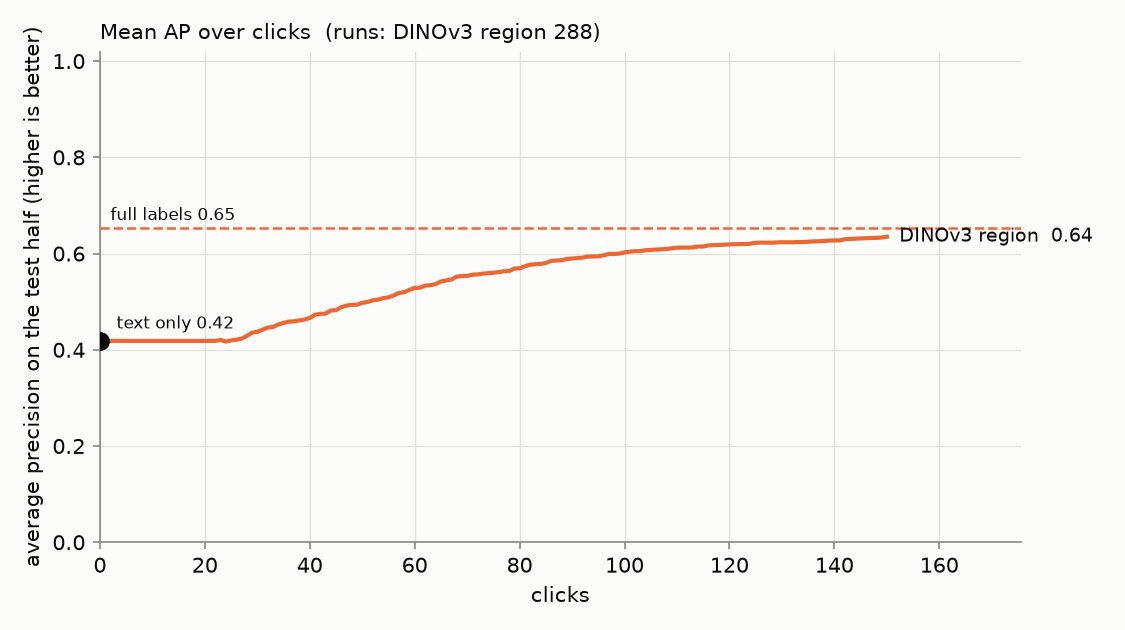
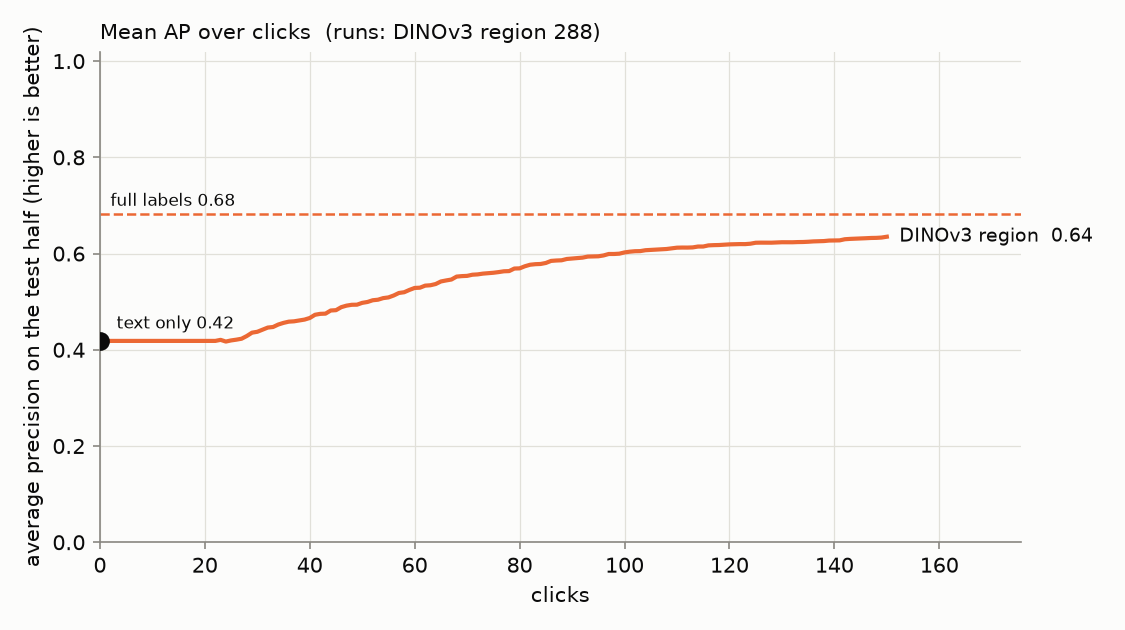
#4552: Region Photo's full-label ceiling and headroom; post-#4605 AP at 150
Seed 0's ceiling (array 891581, 144 runs, symlinked into -b025 and -b4)
landed, so the Region Photo report gets its ceiling columns and a
headroom section:
- headroom +0.04 AP (0.65 -> 0.70, seed 0's trained runs), nearly all at
  small (+0.11); chair, bowl, sink and knife lead; nine classes at or
  above their ceiling;
- the ceiling's own line goes too deep here too (#4490): 0.44/0.47/0.70
  against the 150-click 0.67/0.58/0.66; only beta 4 comes out ahead.

Also corrects AP at 150 in both photo reports, which #4605 moved for the
sessions still in the opening at click 150 and the tables had not caught:
binary small 0.25 -> 0.24, bottle 0.27 -> 0.26, the headroom and
clicks-bought class lists; region small 0.37 -> 0.35, book and knife.

Claude-Session: https://claude.ai/code/session_01RYAFvig7c64CtSQuHpMxrk

Changed region(s): [[0.0933, 0.3016, 0.9022, 0.3619]]

diff --git a/docs/experiments/2026-10-06-state-of-the-app-region-photo/REPORT.md b/docs/experiments/2026-10-06-state-of-the-app-region-photo/REPORT.md
@@ -9,8 +9,9 @@ check (#4496), and presets of beta 1/4, 1 and 4.
 **Path:** the region path. DINOv3 patch embeddings, with box votes trained as patches and a photo scored by
 its best patch (`max_patch`). It opens on SigLIP's text sort.
 **Bench:** `coco_better`, 144 cells (49 classes at every size they have).
-**Seeds:** 2. **Sessions:** one set per preset (`SOTA_BETA=0.25|1|4`), 288 runs each and 864 in all, trajectory
-pass only (the full-label ceiling is still running; see [Not covered](#not-covered)).
+**Seeds:** 2. **Sessions:** one set per preset (`SOTA_BETA=0.25|1|4`), 288 runs each and 864 in all. The
+full-label ceiling ran for seed 0 only (array 891581, 2026-10-07, 144 runs, shared by the three presets), so
+every ceiling number here is seed 0's (#4552).
 **Runs:** `/expscratch/sgreenberg/state-of-the-app/2026-10-06-b025`, `-b1` and `-b4`.
 - A run takes a median of 42 minutes on one core (p90 61, the slowest 144) and peaks at 18 to 22 GB.
 - So the per-user memory cap, not CPUs, sets how many run at once: at most about 43.
@@ -39,7 +40,8 @@ pass only (the full-label ceiling is still running; see [Not covered](#not-cover
   the detectors the harness trains during the opening, which no user sees. Every number before a session's
   hand-off is now the typed query's own set at the guarded line, and the analysis reads that line throughout.
   The votes and every number after the check are unchanged. The objective at 25 clicks moved from
-  0.57/0.49/0.61 to 0.30/0.33/0.50.
+  0.57/0.49/0.61 to 0.30/0.33/0.50. The AP at 150 moved too, for the 9% of sessions still in the opening at click 150:
+  0.37 to 0.35 at small, and book and knife (#4552 caught these).
 
 A **review**, not an experiment: the app as it ships on the region path, the way a user meets it.
 - **The session.** The user types a query and sees the text sort, then votes for 150 clicks while Autopilot picks
@@ -81,6 +83,10 @@ see [below](#where-it-does-well-and-where-it-does-poorly)):
    the 9% of sessions that never leave the opening in 150 clicks: the check is where they first see a detector.
    It cuts the share of runs returning more than 200 images from 4% and 7% to 1% and 3% at 1/4 and 1. At 4 it barely moves
    (27% to 25%).
+4. **The ceiling's own line goes too deep here too (#4490).** With every label known (seed 0), Find's line
+   scores 0.44/0.47/0.70 at the three presets, against the 150-click session's 0.67/0.58/0.66. It returns a mean
+   of 181, 319 and 605 images at precision 0.43, 0.37 and 0.31. As on the binary path, only beta 4, which rewards
+   depth, comes out ahead.
 
 ### The returned set through the session
 
@@ -125,29 +131,30 @@ typed query's set (#4605); the returned size is a median.
 The detector's own line (the labels line) against a set-constant top-K, at the preset's beta. Compare within a
 rule, never across.
 
-| preset | rule | text sort | 25 clicks | 50 clicks | 150 clicks |
-|---:|---|---:|---:|---:|---:|
-| 1/4 | app line | 0.17 | 0.29 | 0.50 | **0.67** |
-| 1/4 | top 32 | 0.47 | 0.47 | 0.55 | **0.68** |
-| 1 | app line | 0.24 | 0.32 | 0.45 | **0.58** |
-| 1 | top 32 | 0.38 | 0.38 | 0.44 | **0.55** |
-| 4 | app line | 0.47 | 0.49 | 0.55 | **0.66** |
-| 4 | top 128 | 0.49 | 0.48 | 0.54 | **0.66** |
+| preset | rule | text sort | 25 clicks | 50 clicks | 150 clicks | full labels (seed 0) |
+|---:|---|---:|---:|---:|---:|---:|
+| 1/4 | app line | 0.17 | 0.29 | 0.50 | **0.67** | 0.44 |
+| 1/4 | top 32 | 0.47 | 0.47 | 0.55 | **0.68** | 0.74 |
+| 1 | app line | 0.24 | 0.32 | 0.45 | **0.58** | 0.47 |
+| 1 | top 32 | 0.38 | 0.38 | 0.44 | **0.55** | 0.59 |
+| 4 | app line | 0.47 | 0.49 | 0.55 | **0.66** | 0.70 |
+| 4 | top 128 | 0.49 | 0.48 | 0.54 | **0.66** | 0.74 |
 
 ![The returned set's share of the best cut, per preset](figures/returned_at_own_beta.png)
 
 **The labels line matches a fixed top-K on the same ranking.** The text sort's app line is #4136's guarded line,
 the one the app draws today. Under top-K the detector beats the text sort by 50 clicks (0.55/0.44/0.54 against
-0.47/0.38/0.49); at 25 most sessions still show the text sort (#4605).
+0.47/0.38/0.49); at 25 most sessions still show the text sort (#4605). Full labels add 0.04 to 0.08 under
+top-K, but the ceiling's own app line falls below the session's at 1/4 and 1: it goes too deep (#4490).
 
 ### The ranking
 
 The ranking barely depends on the preset (shown: the beta 1 sessions):
 
-| | text only | 25 clicks | 50 clicks | 150 clicks |
-|---|---:|---:|---:|---:|
-| **AP** | 0.42 | 0.42 | 0.50 | **0.64** |
-| **Goods found** | — | 11 | 15 | **25** |
+| | text only | 25 clicks | 50 clicks | 150 clicks | full labels (seed 0) |
+|---|---:|---:|---:|---:|---:|
+| **AP** | 0.42 | 0.42 | 0.50 | **0.64** | 0.68 |
+| **Goods found** | — | 11 | 15 | **25** | — |
 
 ![Mean AP over clicks](figures/ap_over_clicks.png)
 
@@ -180,11 +187,11 @@ the next retrain learns from.
 
 **By size band** (beta 1; trained runs; the objective after the check, and the ranking's AP):
 
-| band (runs) | objective | returned, median | text AP | AP at 150 | Goods found |
-|---|---:|---:|---:|---:|---:|
-| large (98) | 0.81 | 50 | 0.70 | 0.88 | 36 |
-| medium (98) | 0.66 | 47 | 0.38 | 0.70 | 26 |
-| small (92; 83 trained) | 0.39 | 46 | 0.18 | 0.37 | 14 |
+| band (runs) | objective | returned, median | text AP | AP at 150 | full-label AP (seed 0) | Goods found |
+|---|---:|---:|---:|---:|---:|---:|
+| large (98) | 0.81 | 50 | 0.70 | 0.88 | 0.89 | 36 |
+| medium (98) | 0.66 | 47 | 0.38 | 0.70 | 0.71 | 26 |
+| small (92; 83 trained) | 0.39 | 46 | 0.18 | 0.35 | 0.44 | 14 |
 
 Against the binary path (0.77/0.49/0.29 by band), the gain is in **medium and small**: +0.17 and +0.10, against
 +0.04 for large.
@@ -195,9 +202,9 @@ Against the binary path (0.77/0.49/0.29 by band), the gain is in **medium and sm
 |---|---:|---:|---:|
 | chair | 0.07 | 0.37 | 0.35 |
 | enclosed road vehicle | 0.22 | 0.63 | 0.67 |
-| book | 0.28 | 0.54 | 0.55 |
+| book | 0.28 | 0.54 | 0.50 |
 | bottle | 0.27 | 0.50 | 0.54 |
-| knife | 0.20 | 0.41 | 0.41 |
+| knife | 0.20 | 0.41 | 0.39 |
 
 **Poorly, still:** tableware and the dining table.
 - Bowl 0.20 (bowl@small never trains, in either seed), spoon 0.29, dining table 0.32.
@@ -214,15 +221,26 @@ On the binary path, chair@small never trains in any of 10 seeds.
 
 ![Every class x band](figures/per_cell.png)
 
+## Headroom (full labels minus 150 clicks)
+
+Seed 0's 139 trained runs (beta 1), where the ceiling ran.
+- **The mean is 0.04 AP** (0.65 at 150 clicks against 0.70 with every label). The clicks had already bought
+  +0.22 over the typed query (0.44 → 0.65), so 150 clicks close about five sixths of the gap to full labels,
+  against about three quarters on the binary path.
+- **It is nearly all small objects:** +0.11 at small (0.34 → 0.44), against +0.02 at large and +0.01 at medium.
+- **By class,** the most is in chair (+0.20; 0.36 → 0.56), bowl (+0.19; 0.17 → 0.35), sink and knife (+0.17),
+  keyboard (+0.15), laptop and motorcycle (+0.13) and tv (+0.11). Bowl's ceiling is low as well: the embedding
+  is part of its problem, as on the binary path. Chair's ceiling is 0.56: the clicks leave the most on the
+  table there.
+- **Nine classes end at or above their ceiling:** cell phone (−0.04), book (−0.04), umbrella and tie (−0.03),
+  clock, airplane, bird, apple and baseball bat. As on the binary path, a head trained on 150 chosen labels can
+  match one trained on every label when the extra labels are noisy.
+
 <a id="not-covered"></a>
 ## Not covered
 
-- **The full-label ceiling.**
-  - A ceiling run takes about 80 GB, against 24 GB for the clicks.
-  - Seed 0's ceiling (array 891581, `-b1/ceiling`) started 2026-10-07 and had 5 of 144 cells at the time of this
-    analysis, so there is still no headroom section.
-  - `perbeta_summary.md`'s ceiling rows for beta 1 come from those 5 cells and are not read here.
-  - #4552 tracks it.
+- **The ceiling for seed 1.** It ran for seed 0 only, about 80 GB a run against 24 GB for the clicks. Every
+  ceiling number above is seed 0's.
 - **Seeds 2 and up** are not run. The binary review's per-image influence lists need repeat clicks, so they are
   not reported on two seeds.
 
@@ -237,9 +255,12 @@ On the binary path, chair@small never trains in any of 10 seeds.
 - `figures/`: the objective, the returned set and its path per preset; AP and Goods over clicks; every cell.
 - `viewer.html`: the beta-1 sessions, both seeds.
 - **Runs and analyses** are in `/expscratch/sgreenberg/state-of-the-app/2026-10-06-b025|b1|b4/`:
-  - `analysis-region-4605/`: **this version's**, both seeds, the opening scored as the text sort (#4605), on the
-    post-#4136 baseline; `perp.py` and `by_click.py` over them are in `2026-10-07-perp-4605-region/`, and
-    `/expscratch/sgreenberg/notch-4599/opening/analyze_4605.sh` reruns one;
+  - `analysis-region-4552/`: **this version's**, both seeds, the opening scored as the text sort (#4605), on the
+    post-#4136 baseline, with seed 0's ceiling (`-b1/ceiling`, symlinked into `-b025` and `-b4`); `perp.py` and
+    `by_click.py` over them are in `2026-10-07-perp-4552-region/`, and
+    `/expscratch/sgreenberg/notch-4599/opening/analyze_dev.sh` reruns one. Off them,
+    `/expscratch/sgreenberg/notch-4599/opening/headroom_4552.py` reads the headroom;
+  - `analysis-region-4605/`: the same without the ceiling;
   - `analysis-region/`: both seeds, on the as-measured text baseline (before #4605);
   - `analysis-region-1seed/`: the first version's;
   - `analysis-region-2seeds-post4136baseline/`: the same sessions, with click 0 scored at #4136's line (#4599);

diff --git a/docs/experiments/2026-10-06-state-of-the-app-region-photo/perbeta_summary.md b/docs/experiments/2026-10-06-state-of-the-app-region-photo/perbeta_summary.md
@@ -45,32 +45,32 @@ One rule per row (owner, 2026-10-04: apples to apples). `app line`: each sort's 
 | beta 0.25 | DINOv3 region | app line | 0.25 | 25 | 239.243 | 0.285 | 0.556 | 0.287 | 0.567 | 0.46 | 0.0 | 288 |
 | beta 0.25 | DINOv3 region | app line | 0.25 | 50 | 129.741 | 0.509 | 0.505 | 0.496 | 0.623 | 0.669 | 0.0 | 278 |
 | beta 0.25 | DINOv3 region | app line | 0.25 | final | 53.705 | 0.727 | 0.481 | 0.665 | 0.756 | 0.797 | 0.0 | 288 |
-| beta 0.25 | DINOv3 region | app line | 0.25 | ceiling |  |  |  |  |  |  | 0.0 | 0 |
+| beta 0.25 | DINOv3 region | app line | 0.25 | ceiling | 180.771 | 0.433 | 0.859 | 0.442 | 0.815 | 0.496 | 0.0 | 144 |
 | beta 0.25 | DINOv3 region | top-K | 0.25 | text | 32.0 | 0.486 | 0.314 | 0.471 | 0.561 | 0.69 | 0.0 | 288 |
 | beta 0.25 | DINOv3 region | top-K | 0.25 | 25 | 32.0 | 0.488 | 0.315 | 0.472 | 0.567 | 0.688 | 0.0 | 288 |
 | beta 0.25 | DINOv3 region | top-K | 0.25 | 50 | 32.0 | 0.566 | 0.366 | 0.548 | 0.623 | 0.726 | 0.0 | 278 |
 | beta 0.25 | DINOv3 region | top-K | 0.25 | final | 32.0 | 0.705 | 0.456 | 0.682 | 0.756 | 0.816 | 0.0 | 288 |
-| beta 0.25 | DINOv3 region | top-K | 0.25 | ceiling |  |  |  |  |  |  | 0.0 | 0 |
+| beta 0.25 | DINOv3 region | top-K | 0.25 | ceiling | 32.0 | 0.759 | 0.489 | 0.735 | 0.815 | 0.876 | 0.0 | 144 |
 | beta 1 | DINOv3 region | app line | 1.0 | text | 288.312 | 0.166 | 0.583 | 0.238 | 0.45 | 0.568 | 0.0 | 288 |
 | beta 1 | DINOv3 region | app line | 1.0 | 25 | 247.672 | 0.259 | 0.573 | 0.316 | 0.451 | 0.652 | 0.0 | 287 |
 | beta 1 | DINOv3 region | app line | 1.0 | 50 | 147.921 | 0.438 | 0.564 | 0.453 | 0.519 | 0.78 | 0.0 | 280 |
 | beta 1 | DINOv3 region | app line | 1.0 | final | 90.872 | 0.605 | 0.617 | 0.581 | 0.639 | 0.839 | 0.0 | 288 |
-| beta 1 | DINOv3 region | app line | 1.0 | ceiling | 366.848 | 0.377 | 0.899 | 0.462 | 0.665 | 0.603 | 0.0 | 46 |
+| beta 1 | DINOv3 region | app line | 1.0 | ceiling | 319.354 | 0.37 | 0.911 | 0.468 | 0.687 | 0.61 | 0.0 | 144 |
 | beta 1 | DINOv3 region | top-K | 1.0 | text | 32.0 | 0.486 | 0.314 | 0.381 | 0.45 | 0.72 | 0.0 | 288 |
 | beta 1 | DINOv3 region | top-K | 1.0 | 25 | 32.0 | 0.488 | 0.315 | 0.382 | 0.451 | 0.722 | 0.0 | 287 |
 | beta 1 | DINOv3 region | top-K | 1.0 | 50 | 32.0 | 0.567 | 0.366 | 0.444 | 0.519 | 0.729 | 0.0 | 280 |
 | beta 1 | DINOv3 region | top-K | 1.0 | final | 32.0 | 0.705 | 0.456 | 0.553 | 0.639 | 0.797 | 0.0 | 288 |
-| beta 1 | DINOv3 region | top-K | 1.0 | ceiling | 32.0 | 0.728 | 0.462 | 0.564 | 0.665 | 0.849 | 0.0 | 46 |
+| beta 1 | DINOv3 region | top-K | 1.0 | ceiling | 32.0 | 0.759 | 0.489 | 0.593 | 0.687 | 0.863 | 0.0 | 144 |
 | beta 4 | DINOv3 region | app line | 4.0 | text | 288.312 | 0.166 | 0.583 | 0.469 | 0.566 | 0.74 | 0.0 | 288 |
 | beta 4 | DINOv3 region | app line | 4.0 | 25 | 270.547 | 0.23 | 0.585 | 0.489 | 0.567 | 0.76 | 0.0 | 287 |
 | beta 4 | DINOv3 region | app line | 4.0 | 50 | 198.941 | 0.353 | 0.611 | 0.551 | 0.617 | 0.787 | 0.0 | 273 |
 | beta 4 | DINOv3 region | app line | 4.0 | final | 295.701 | 0.427 | 0.757 | 0.659 | 0.722 | 0.842 | 0.0 | 288 |
-| beta 4 | DINOv3 region | app line | 4.0 | ceiling |  |  |  |  |  |  | 0.0 | 0 |
+| beta 4 | DINOv3 region | app line | 4.0 | ceiling | 605.431 | 0.308 | 0.948 | 0.701 | 0.796 | 0.852 | 0.0 | 144 |
 | beta 4 | DINOv3 region | top-K | 4.0 | text | 128.0 | 0.207 | 0.531 | 0.485 | 0.566 | 0.741 | 0.0 | 288 |
 | beta 4 | DINOv3 region | top-K | 4.0 | 25 | 128.0 | 0.206 | 0.529 | 0.484 | 0.567 | 0.738 | 0.0 | 287 |
 | beta 4 | DINOv3 region | top-K | 4.0 | 50 | 128.0 | 0.229 | 0.588 | 0.538 | 0.617 | 0.751 | 0.0 | 273 |
 | beta 4 | DINOv3 region | top-K | 4.0 | final | 128.0 | 0.281 | 0.721 | 0.659 | 0.722 | 0.841 | 0.0 | 288 |
-| beta 4 | DINOv3 region | top-K | 4.0 | ceiling |  |  |  |  |  |  | 0.0 | 0 |
+| beta 4 | DINOv3 region | top-K | 4.0 | ceiling | 128.0 | 0.315 | 0.805 | 0.737 | 0.796 | 0.914 | 0.0 | 144 |
 
 ## The early dip
 

diff --git a/docs/experiments/2026-10-05-state-of-the-app-binary-photo/REPORT.md b/docs/experiments/2026-10-05-state-of-the-app-binary-photo/REPORT.md
@@ -20,7 +20,8 @@ full-label ceiling pass shared by the three.
   Autopilot's opening and shows a detector only from the Hard phase on (`app_trained`). The first version
   scored the detectors the harness trains during the opening, which no user sees. Every number before a
   session's hand-off is now the typed query's own set at #4136's guarded line. The votes and every number after
-  the check are unchanged. The objective at 25 clicks moved from 0.43/0.34/0.42 to 0.32/0.32/0.47.
+  the check are unchanged. The objective at 25 clicks moved from 0.43/0.34/0.42 to 0.32/0.32/0.47. The AP at 150 moved too, for the sessions still in the opening at click 150: by 0.01 at small, and in a few
+  classes (#4552 caught these).
 
 A **review**, not an experiment: the app as it ships, the way a user meets it.
 - **The session.** The user types a query and sees the text sort, then votes for 150 clicks while Autopilot picks
@@ -168,7 +169,7 @@ in `new` or `done`. Priced against the same sessions without it (#4496, round 2)
 |---|---:|---:|---:|---:|---:|---:|
 | large (49) | 0.77 | 45 | 0.70 | 0.80 | 0.82 | 30 |
 | medium (49) | 0.49 | 41 | 0.38 | 0.50 | 0.51 | 22 |
-| small (46) | 0.29 | 39 | 0.16 | 0.25 | 0.30 | 11 |
+| small (46) | 0.29 | 39 | 0.16 | 0.24 | 0.30 | 11 |
 
 ![Every class x band](figures/per_cell.png)
 
@@ -194,7 +195,7 @@ in `new` or `done`. Priced against the same sessions without it (#4496, round 2)
 | knife | 0.20 | 32 | 0.08 | 0.20 | 0.30 | loop |
 | enclosed road vehicle | 0.22 | 75 | 0.15 | 0.22 | 0.24 | embedding |
 | bench | 0.26 | 36 | 0.24 | 0.25 | 0.26 | embedding |
-| bottle | 0.27 | 45 | 0.16 | 0.27 | 0.30 | mixed |
+| bottle | 0.27 | 45 | 0.16 | 0.26 | 0.30 | mixed |
 | book | 0.28 | 38 | 0.25 | 0.29 | 0.33 | embedding |
 | fork | 0.30 | 55 | 0.15 | 0.26 | 0.33 | mixed |
 
@@ -225,15 +226,15 @@ the last two reviews: the data has not changed, and neither has the embedding.
 
 ## Headroom (full labels minus 150 clicks)
 
-The mean is 0.03 (0.55 − 0.52). It concentrates in a few classes: person (0.13), knife (0.11), bowl (0.10),
-spoon (0.09), chair (0.09), keyboard (0.09) and laptop (0.08). Skis, airplane and baseball bat sit at or above
+The mean is 0.03 (0.55 − 0.52). It concentrates in a few classes: person (0.15), knife (0.11), keyboard and bowl
+(0.10), spoon and chair (0.09) and microwave (0.08). Skis, airplane and baseball bat sit at or above
 their ceiling: a head trained on 150 chosen labels can match one trained on every label when the extra labels
 are noisy.
 
 ## What the clicks bought (150 clicks minus text only)
 
-The mean is +0.10 AP (0.42 → 0.52). Person gains the most, +0.36 (0.10 → 0.47): the typed query ranks it badly and
-clicks rescue it. Skis gains +0.30, and dog and sink +0.24 each. Chair loses 0.01. Bag or luggage, bench and
+The mean is +0.10 AP (0.42 → 0.52). Person gains the most, +0.34 (0.10 → 0.45): the typed query ranks it badly and
+clicks rescue it. Skis gains +0.30, dog +0.24 and sink +0.23. Chair loses 0.01. Bag or luggage, bench and
 parking meter gain at most 0.02: for these, typing the query is as good as clicking.
 
 ![Mean Goods found over clicks](figures/goods_over_clicks.png)
